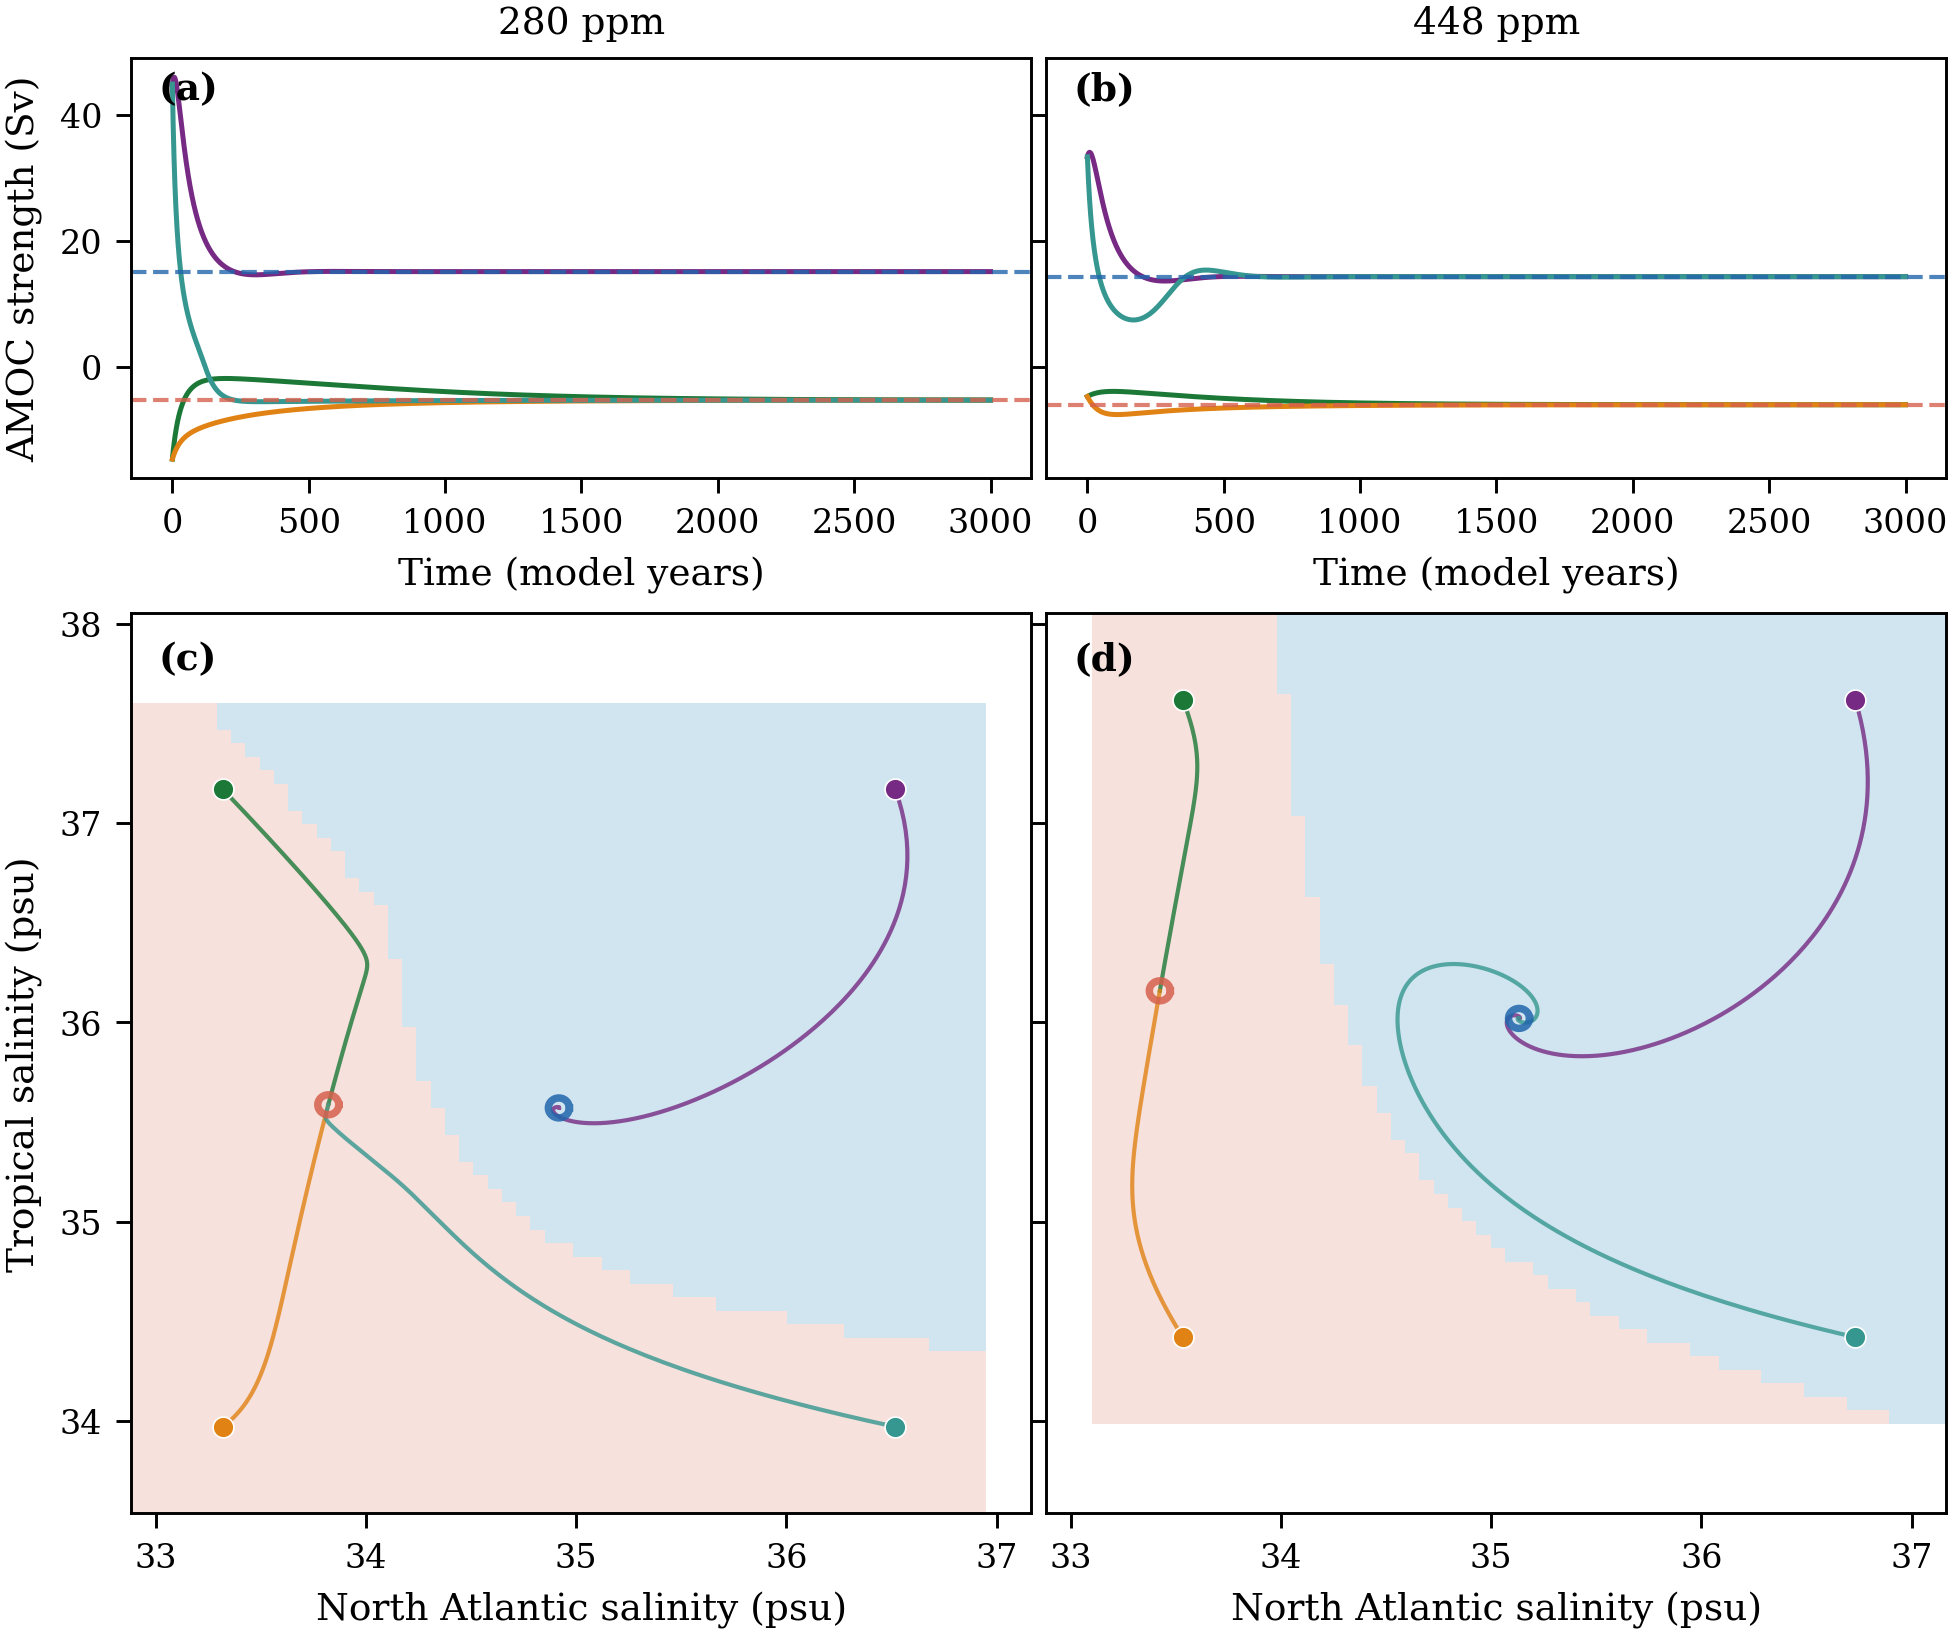
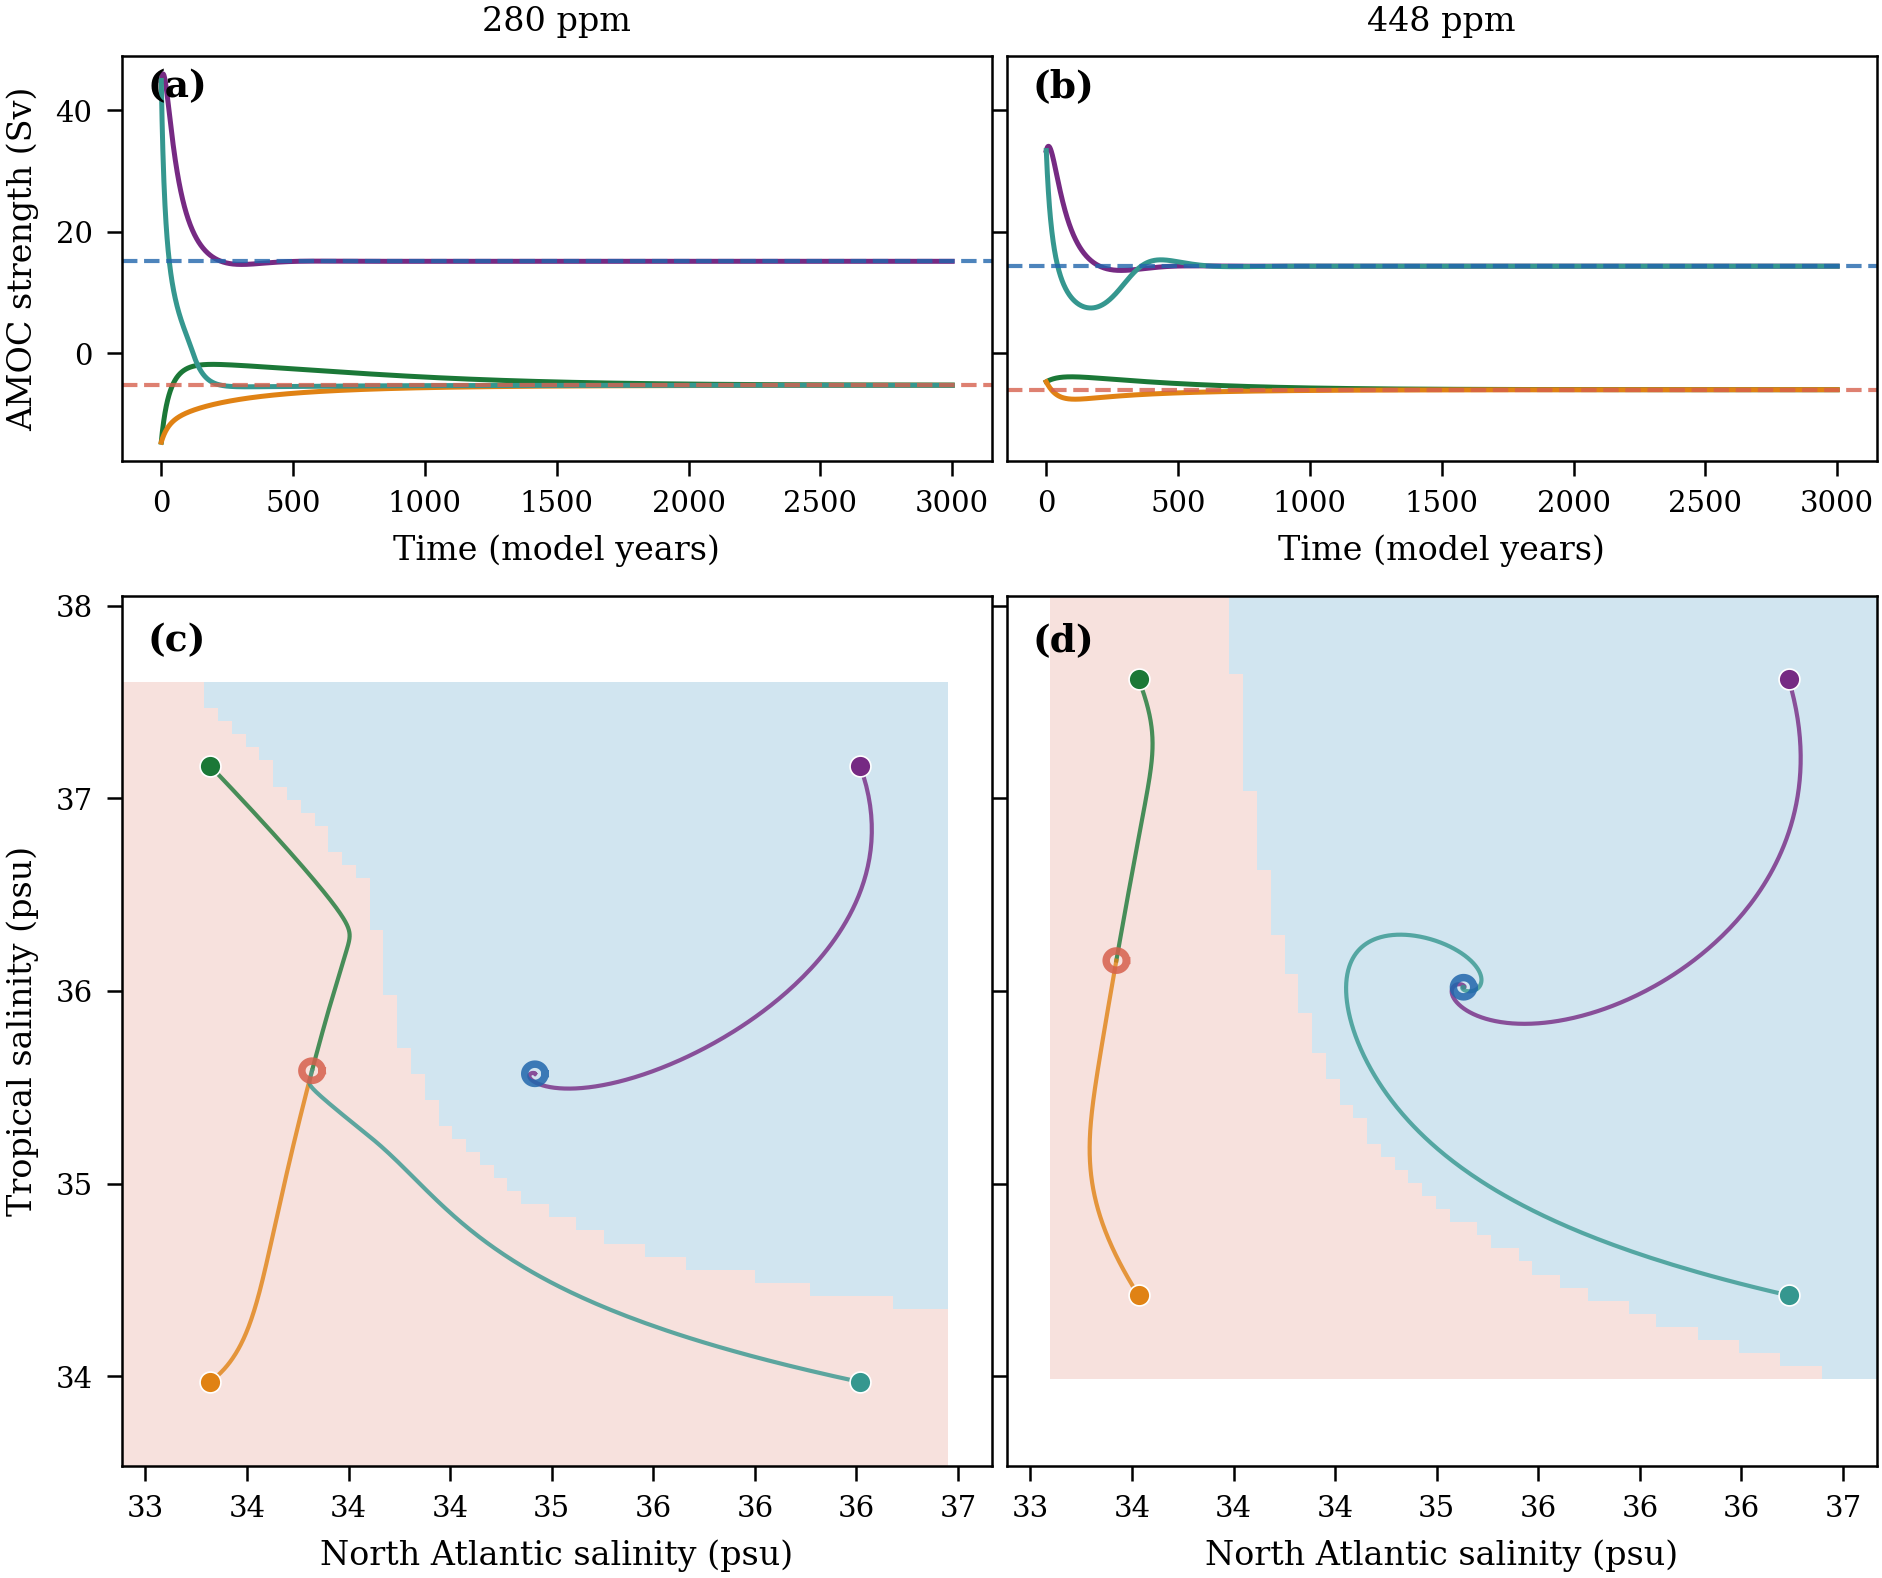
Tune paper figure fonts for single-column layout

diff --git a/scripts/plotting_paper.py b/scripts/plotting_paper.py
@@ -136,7 +136,7 @@ def main() -> None:
         ax_top.axhline(q_on,  color=COL_ON,  lw=LW_EQUIL, ls=LS_EQUIL, alpha=ALPHA_EQUIL)
         ax_top.axhline(q_off, color=COL_OFF, lw=LW_EQUIL, ls=LS_EQUIL, alpha=ALPHA_EQUIL)
 
-        ax_top.set_title(title, fontsize=9)
+        ax_top.set_title(title, fontsize=8)
         if col == 0:
             ax_top.set_ylabel("AMOC strength (Sv)")
         else:
